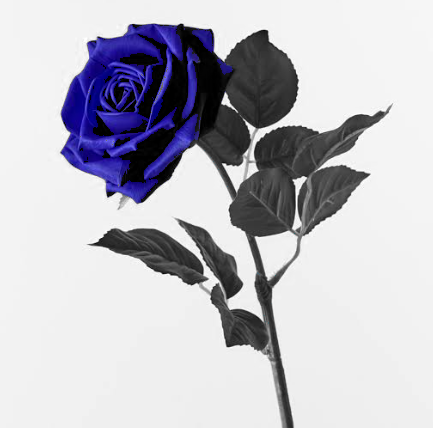
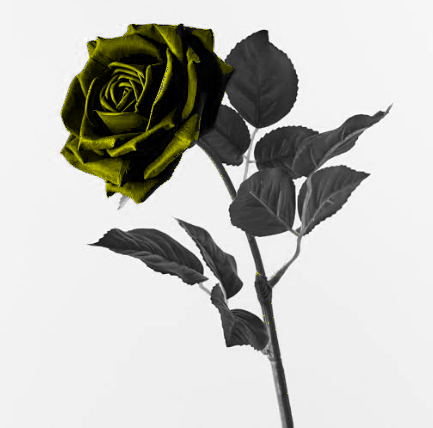
.

Changed region(s): [[0.1201, 0.0304, 0.5104, 0.486], [0.5104, 0.1519, 0.5404, 0.1822]]

diff --git a/Combined/Red Separation/code.py b/Combined/Red Separation/code.py
@@ -5,6 +5,8 @@ image=cv2.imread('image.png')
 temp=cv2.imread('image.png')
 val=cv2.imread('image.png')
 result=cv2.imread('image.png')
+yellow=cv2.imread('image.png')
+blue=cv2.imread('image.png')
 m=len(image)
 n=len(image[0])
 
@@ -24,12 +26,26 @@ for i in range(m):
             result[i][j][0]=value
             result[i][j][1]=value
             result[i][j][2]=value
+            yellow[i][j][0]=value
+            yellow[i][j][1]=value
+            yellow[i][j][2]=value
+            blue[i][j][0]=value
+            blue[i][j][1]=value
+            blue[i][j][2]=value
         else:
             temp[i][j][0]=0
             result[i][j][0], result[i][j][2]=result[i][j][2], result[i][j][0]
             image[i][j][1], image[i][j][2]=image[i][j][2], image[i][j][1]
+            blue[i][j][1]=0
+            blue[i][j][2]=0
+            blue[i][j][0]+=100
+            yellow[i][j][1]+=yellow[i][j][0]
+            yellow[i][j][2]=yellow[i][j][1]
+            yellow[i][j][0]=0
 
 cv2.imwrite('enhance1.png', image)
 cv2.imwrite('enhance2.png', temp)
 cv2.imwrite('enhance3.png', val)
 cv2.imwrite('enhance4.png', result)
+cv2.imwrite('enhance4.png', yellow)
+cv2.imwrite('enhance5.png', blue)
